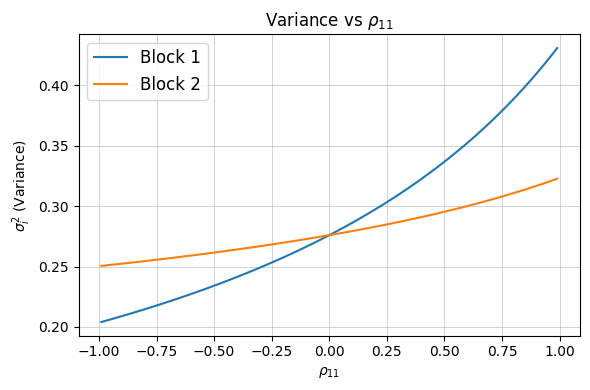
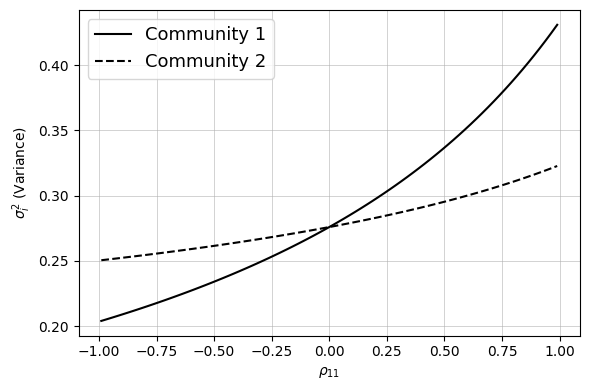
Refactor plotting functions to improve line styles and labels; update heatmap color and formatting

diff --git a/Application_2.py b/Application_2.py
@@ -18,14 +18,21 @@ def plot_gamma_vs_s(beta, rho, r, s_min=0.2, s_max=1.4, num_points=100):
         gamma_values[i] = gamma
 
     plt.figure(figsize=(8, 5))
+    line_styles = ['-', '--', '-.', ':']
     for k in range(K):
-        plt.plot(s_values, gamma_values[:, k], label=f"Block {k + 1}")
+        style = line_styles[k] if k < len(line_styles) else '-'
+        plt.plot(
+            s_values,
+            gamma_values[:, k],
+            label=f"Community {k + 1}",
+            linestyle=style,
+            color='black',
+        )
 
     plt.xlabel("Off-diagonal interaction strength (s)")
-    plt.ylabel(r"$\gamma$ (Persistence)")
-    plt.title(r"$\gamma$ vs. $s$ (Fixed diagonal)")
-    plt.legend()
-    plt.grid(True)
+    plt.ylabel(r"$\gamma_i$ (persistence)")
+    plt.legend(fontsize=13)
+    plt.grid(True, linewidth=0.4)
     plt.tight_layout()
     plt.show()
 
@@ -41,14 +48,21 @@ def plot_sigma_vs_s(beta, rho, r, s_min=0.2, s_max=1.4, num_points=100):
         sigma_values[i] = variance
 
     plt.figure(figsize=(8, 5))
+    line_styles = ['-', '--', '-.', ':']
     for k in range(K):
-        plt.plot(s_values, sigma_values[:, k], label=f"Block {k + 1}")
+        style = line_styles[k] if k < len(line_styles) else '-'
+        plt.plot(
+            s_values,
+            sigma_values[:, k],
+            label=f"Community {k + 1}",
+            linestyle=style,
+            color='black',
+        )
 
     plt.xlabel("Off-diagonal interaction strength (s)")
-    plt.ylabel(r"$\sigma^2$ (Variance of persistent species)")
-    plt.title(r"$\sigma$ vs. $s$ (Fixed diagonal)")
-    plt.legend()
-    plt.grid(True)
+    plt.ylabel(r"$\sigma^2_i$ (Variance)")
+    plt.legend(fontsize=13)
+    plt.grid(True, linewidth=0.4)
     plt.tight_layout()
     plt.show()
 
@@ -64,13 +78,12 @@ def plot_sigma_diff_vs_s(beta, rho, r, s_min=0.2, s_max=1.4, num_points=100):
         variance_diff[i] = variance[0] - variance[1]
 
     plt.figure(figsize=(8, 5))
-    plt.plot(s_values, variance_diff, label="Variance Block 1 - Block 2")
+    plt.plot(s_values, variance_diff, color='black')
     plt.xlabel("Off-diagonal interaction strength (s)")
-    plt.ylabel("Variance difference")
-    plt.title("Variance difference between blocks vs s")
+    plt.ylabel(r"Variance difference $(\sigma_1^2 - \sigma_2^2)$")
     plt.axhline(0.0, color="black", linewidth=0.8, linestyle="--")
-    plt.legend()
-    plt.grid(True)
+    plt.legend(fontsize=13)
+    plt.grid(True, linewidth=0.4)
     plt.tight_layout()
     plt.show()
 

diff --git a/Application_1.py b/Application_1.py
@@ -31,14 +31,21 @@ def sweep_rho11(
     return gamma_values, variance_values
 
 
-def plot_vs_rho11(x_values, y_matrix, y_label, title, ax):
+def plot_vs_rho11(x_values, y_matrix, y_label, ax):
+    line_styles = ['-', '--', '-.', ':']
     for block_idx in range(y_matrix.shape[1]):
-        ax.plot(x_values, y_matrix[:, block_idx], label=f"Block {block_idx + 1}")
+        style = line_styles[block_idx] if block_idx < len(line_styles) else '-'
+        ax.plot(
+            x_values,
+            y_matrix[:, block_idx],
+            label=f"Community {block_idx + 1}",
+            linestyle=style,
+            color='black',
+        )
     ax.set_xlabel(r"$\rho_{11}$")
     ax.set_ylabel(y_label)
-    ax.set_title(title)
     ax.grid(True, linewidth=0.4)
-    ax.legend(fontsize=12)
+    ax.legend(fontsize=13)
 
 
 if __name__ == "__main__":
@@ -55,7 +62,6 @@ if __name__ == "__main__":
         rho11_values,
         gamma_values,
         y_label=r"$\gamma_i$ (persistence)",
-        title=r"Persistence vs $\rho_{11}$",
         ax=ax_gamma,
     )
     fig_gamma.tight_layout()
@@ -65,7 +71,6 @@ if __name__ == "__main__":
         rho11_values,
         variance_values,
         y_label=r"$\sigma^2_i$ (Variance)",
-        title=r"Variance vs $\rho_{11}$",
         ax=ax_var,
     )
     fig_var.tight_layout()

diff --git a/Application_3.py b/Application_3.py
@@ -1,5 +1,6 @@
 import numpy as np
 import matplotlib.pyplot as plt
+from matplotlib.ticker import FormatStrFormatter
 import seaborn as sns
 from Benchmark.Theory import compute_fixed_point_final
 
@@ -47,17 +48,20 @@ def heatmap_gamma1_vs_s12_s21(beta, r, s12_range, s21_range, s_diag=(0.5, 0.5), 
             gamma1_grid[j, i] = gamma[0]  # gamma_1 as Z-axis
 
     plt.figure(figsize=(8, 6))
-    sns.heatmap(
+    ax = sns.heatmap(
         gamma1_grid,
         xticklabels=np.round(s12_values, 2),
         yticklabels=np.round(s21_values, 2),
-        cmap="magma",
-        cbar_kws={'label': r'$\gamma_1$'},
+        cmap="Greys_r",
+        cbar_kws={'label': r'$\gamma_i$'},
         square=True
     )
+
+    cbar = ax.collections[0].colorbar
+    cbar.ax.yaxis.set_major_formatter(FormatStrFormatter('%.1f'))
+    cbar.ax.tick_params(labelsize=12)
     plt.xlabel(r"$s_{12}$ (Community 2 → 1)")
     plt.ylabel(r"$s_{21}$ (Community 1 → 2)")
-    plt.title(r"Heatmap of $\gamma_1$ vs $s_{12}$ and $s_{21}$")
     plt.tight_layout()
     plt.show()
 
